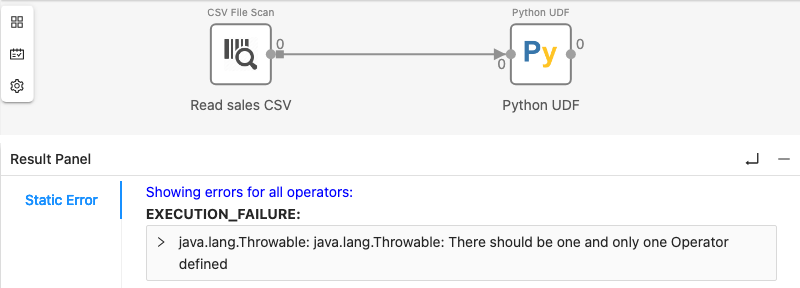
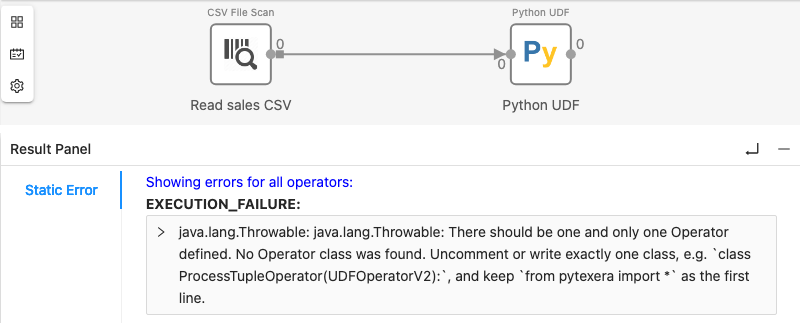
docs: retake UDF error screenshots with the new messages; mention warehouses
- errors-all-operators.png and udf-console-error.png now show the new
  Static Error and Console messages, taken on a Texera built with the
  UDF error PRs
- Running a workflow can now need a warehouse (#8713); say where to
  pick or create one

Refs #8736

diff --git a/docs/tutorials/guide-for-how-to-use-texera/index.md b/docs/tutorials/guide-for-how-to-use-texera/index.md
@@ -41,6 +41,7 @@ After signing in you see the dashboard. The left menu has:
   - **Workflows**: your workflows. Click **Create Workflow** to start one.
   - **Datasets**: your data files ([how to upload](../create-dataset-upload-data/)).
   - **Compute**: your computing units (see [below](#run-a-workflow)).
+  - **Warehouses** (on some setups): where your run results are stored.
   - **Environments**: extra Python packages for Python operators.
   - **Quota**: how much storage and compute you have used.
 - **Admin**: users, executions and site settings. Admins only.
@@ -59,6 +60,8 @@ After signing in you see the dashboard. The left menu has:
 A **computing unit** is the machine that runs your workflow. Pick one in the top bar, then click **Run**. If the list is empty, click **+ Computing Unit** to create one.
 
 ![Computing unit selector and Run button](select-computing-unit.png)
+
+Some Texera setups also need a **warehouse**, the place your run's results are stored. Pick one from the **Warehouse** menu next to the computing unit. If the Run button says **+ Warehouse** instead, click it to create one. The name can use letters, digits, `-` and `_`.
 
 - One computing unit can run all your workflows. Reuse it.
 - A new unit usually won't fix an error in the workflow itself (code or settings). It can help when the run needs more memory, CPU or GPU, or different Python packages.
